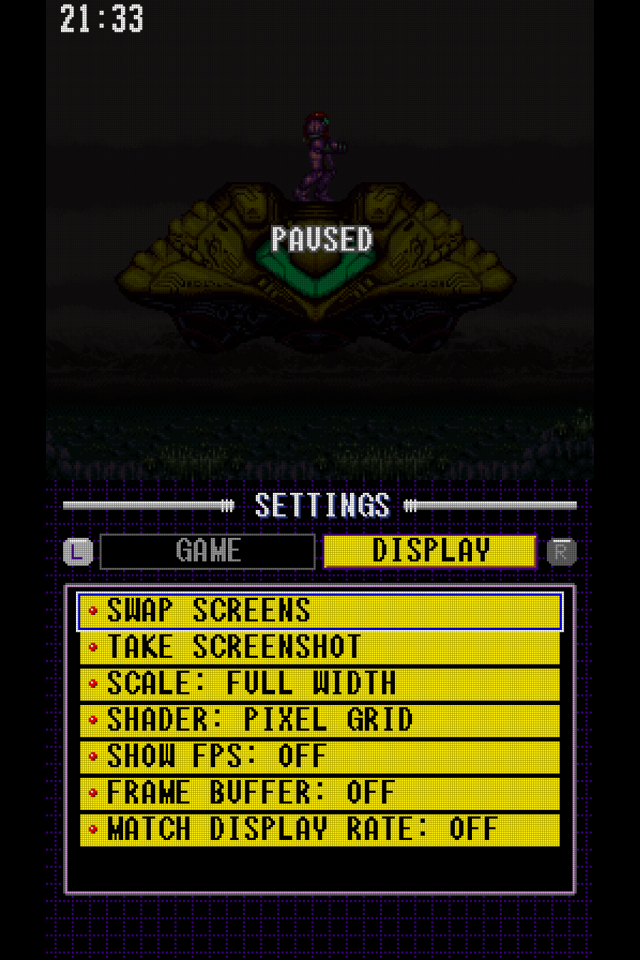
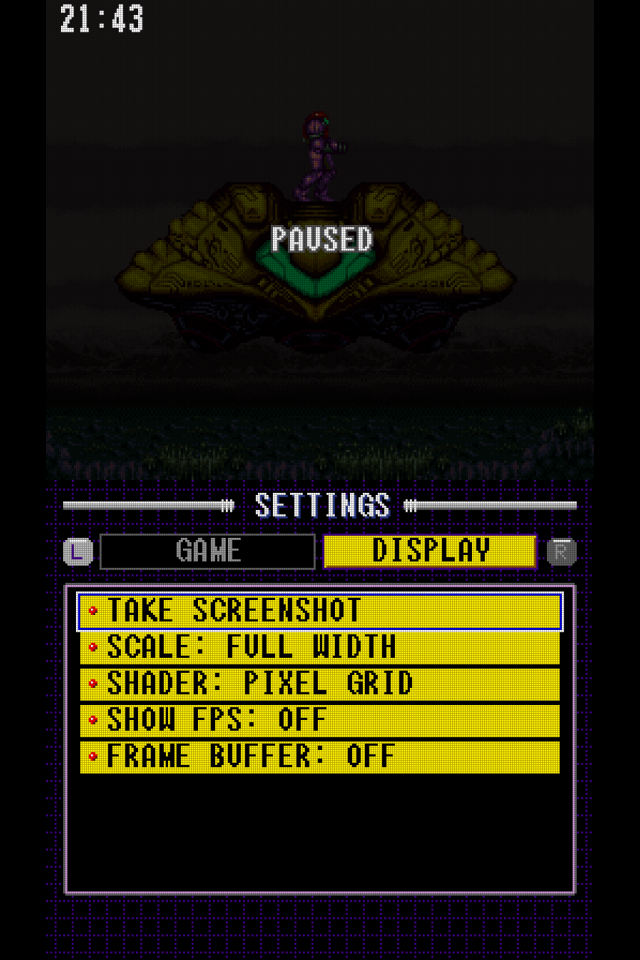
Settings: drop Swap Screens and Match Display Rate
The Display page keeps Take Screenshot, Scale, Shader, Show FPS and
Frame Buffer. Screens still swap with L3 (or HOME + Y), and
match_display is still in sm-ds.cfg.

Claude-Session: https://claude.ai/code/session_01XSANKdwaLWqU7kMzjuHK3m

Changed region(s): [[0.125, 0.625, 0.875, 0.9062], [0.1562, 0.0, 0.2188, 0.0312]]

diff --git a/src/game.c b/src/game.c
@@ -1272,13 +1272,11 @@ enum GameExit game_run(Config* c, const char* rom) {
 	pages[0][pageLen[0]++] = M_FULLPAUSE;
 	pages[0][pageLen[0]++] = M_RESTART;
 	pages[0][pageLen[0]++] = M_EXIT;
-	pages[1][pageLen[1]++] = M_SWAP;
 	pages[1][pageLen[1]++] = M_SHOT;
 	pages[1][pageLen[1]++] = M_SCALE;
 	pages[1][pageLen[1]++] = M_LCD;
 	pages[1][pageLen[1]++] = M_FPS;
 	pages[1][pageLen[1]++] = M_FRAMEBUF;
-	pages[1][pageLen[1]++] = M_MATCH;
 	set_page(0);
 
 	if (cfg->loadState[0]) {

diff --git a/README.md b/README.md
@@ -110,7 +110,9 @@ and scaled like the game, by the Scale setting. It has two pages (L / R or
 tap the tabs):
 
 - **Game**: Resume, Save State, Load State, Rewind, Cheats, Full Pause Menu (off: START just pauses; on: START opens the game's own pause screen, map and equipment, on the game screen), Restart Game, Close Super Metroid
-- **Display**: Swap Screens, Take Screenshot, Scale (Pixel Perfect / Full Width / Zoom / Stretch), Shader (Off / Pixel Grid / Scanlines), Show FPS, Frame Buffer, Match Display Rate
+- **Display**: Take Screenshot, Scale (Pixel Perfect / Full Width / Zoom / Stretch), Shader (Off / Pixel Grid / Scanlines), Show FPS, Frame Buffer
+
+Screens are swapped with L3 (or HOME + Y); running at the display's refresh rate is `match_display` in `sm-ds.cfg`.
 
 **Cheats**: RetroArch `.cht` files in the `cheats` folder next to the program
 (made on first launch; subfolders are read too, `cheat_dir` to change it) all

diff --git a/CHANGELOG.md b/CHANGELOG.md
@@ -12,6 +12,7 @@ The whole pause screen on the second screen, and equipment switched by touch.
 - While the game couldn't be paused (doors, Ceres, cutscenes), the MAP and SAMUS buttons are greyed out and the page is dimmed.
 - Settings → Game → **Full Pause Menu** (off by default) brings back the game's own pause screen on START.
 - PAUSED is smaller, with a dark grey edge like the opening text crawl; the settings button reads SETTINGS MENU, in the game's small font, on the equipment screen's orange.
+- Swap Screens and Match Display Rate are gone from the settings menu: swap with L3 (or HOME + Y), and `match_display` is still in `sm-ds.cfg`.
 
 ## v0.1
 
